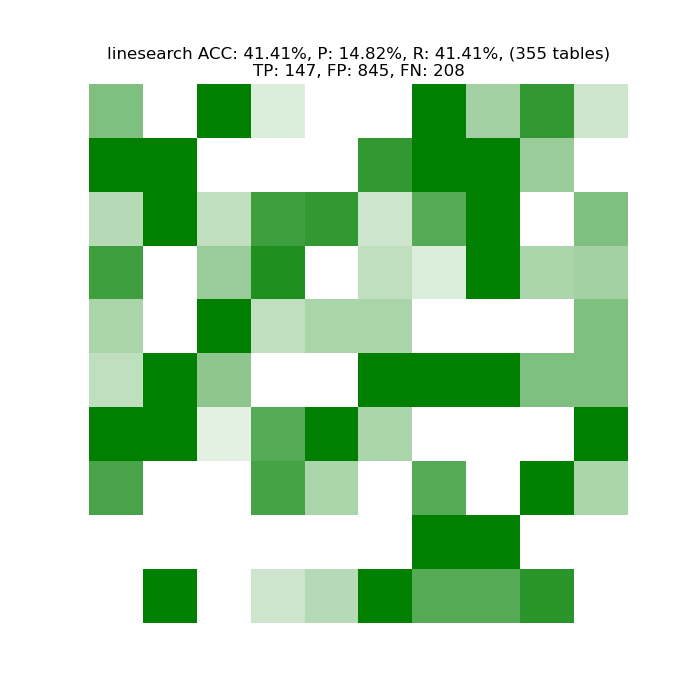
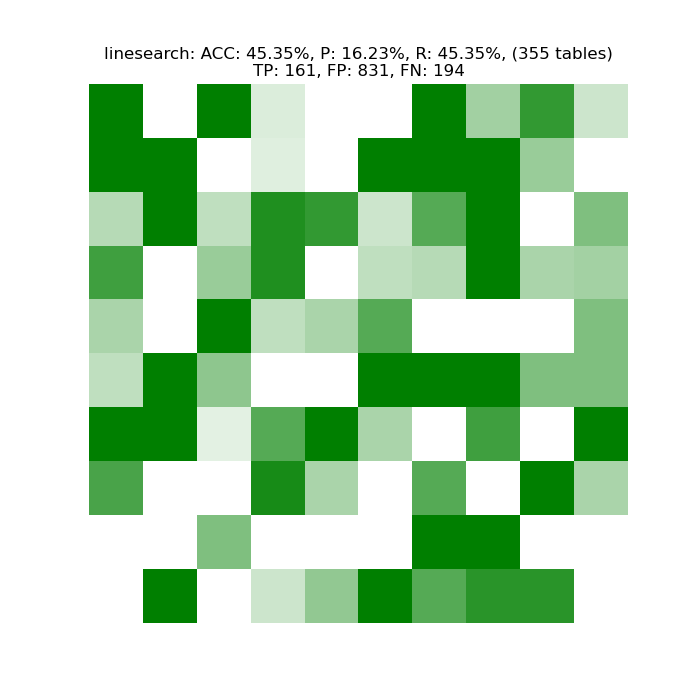
Updated digit spotting method and improved table detection with header

diff --git a/core/extractor_linesearch.py b/core/extractor_linesearch.py
@@ -21,7 +21,7 @@ def read_and_delete_file(path) -> Optional[List[str]]:
 
 def find_numbers_in_line(line):
     line_words = line.split(' ')
-    digits_elements = [l for l in line_words if l.replace('.','',1).replace('%','').replace('±','').isdigit()]
+    digits_elements = [l for l in line_words if l.replace('.','').replace(',','').replace('%','').replace('±','').isdigit()]
     return line_words, digits_elements
 
 def extract_tables(path):
@@ -85,7 +85,7 @@ def extract_tables(path):
                         else:
                             line_has_digits = digits >= words // 3 or digits >= 2
                     if digits > 0 and not line_has_digits:
-                        line_has_digits = line_words[-1].replace('.','',1).replace('%','').replace('±','').isdigit()
+                        line_has_digits = line_words[-1].replace('.','').replace(',','').replace('%','').replace('±','').isdigit()
                     if line_has_digits:
                         # line with digits
                         current_table.insert(0, line)
@@ -97,6 +97,7 @@ def extract_tables(path):
                         added = True
 
                     if not added and not last_added:
+                        current_table.insert(0, line) # insert just this one
                         break
 
                     if not added:

diff --git a/core/analysis/check_results_over_groundtruth.py b/core/analysis/check_results_over_groundtruth.py
@@ -73,7 +73,8 @@ def check_results(csv_folder:str, groundtruth:dict, split_char='-') ->(list, lis
         if gth_tables == 0:
             files_percentage_ok.append(100.0)
         else:
-            files_percentage_ok.append(float(this_TP)/gth_tables*100)
+            acc = float(this_TP)/gth_tables*100
+            files_percentage_ok.append(acc)
             FN += gth_tables - this_TP
     TN = 0 # if no table, ok but no other info.
     return TP, TN, FP, FN, files_percentage_ok

diff --git a/analysis/pdf2info_tests/show_results_of_method.py b/analysis/pdf2info_tests/show_results_of_method.py
@@ -1,3 +1,4 @@
+import logging
 import sys
 sys.path.insert(0, "../../")
 from core.analysis.results_plotter import plot_save_results
@@ -12,6 +13,7 @@ def create_plots_results(method_used:str, show_fig:bool=True):
 
 
 if __name__ == '__main__':
-    method_used = 'tabula_and_linesearch'
+    logging.basicConfig(level=logging.DEBUG)
+    method_used = 'linesearch'
     create_plots_results(method_used, show_fig=True)
 
